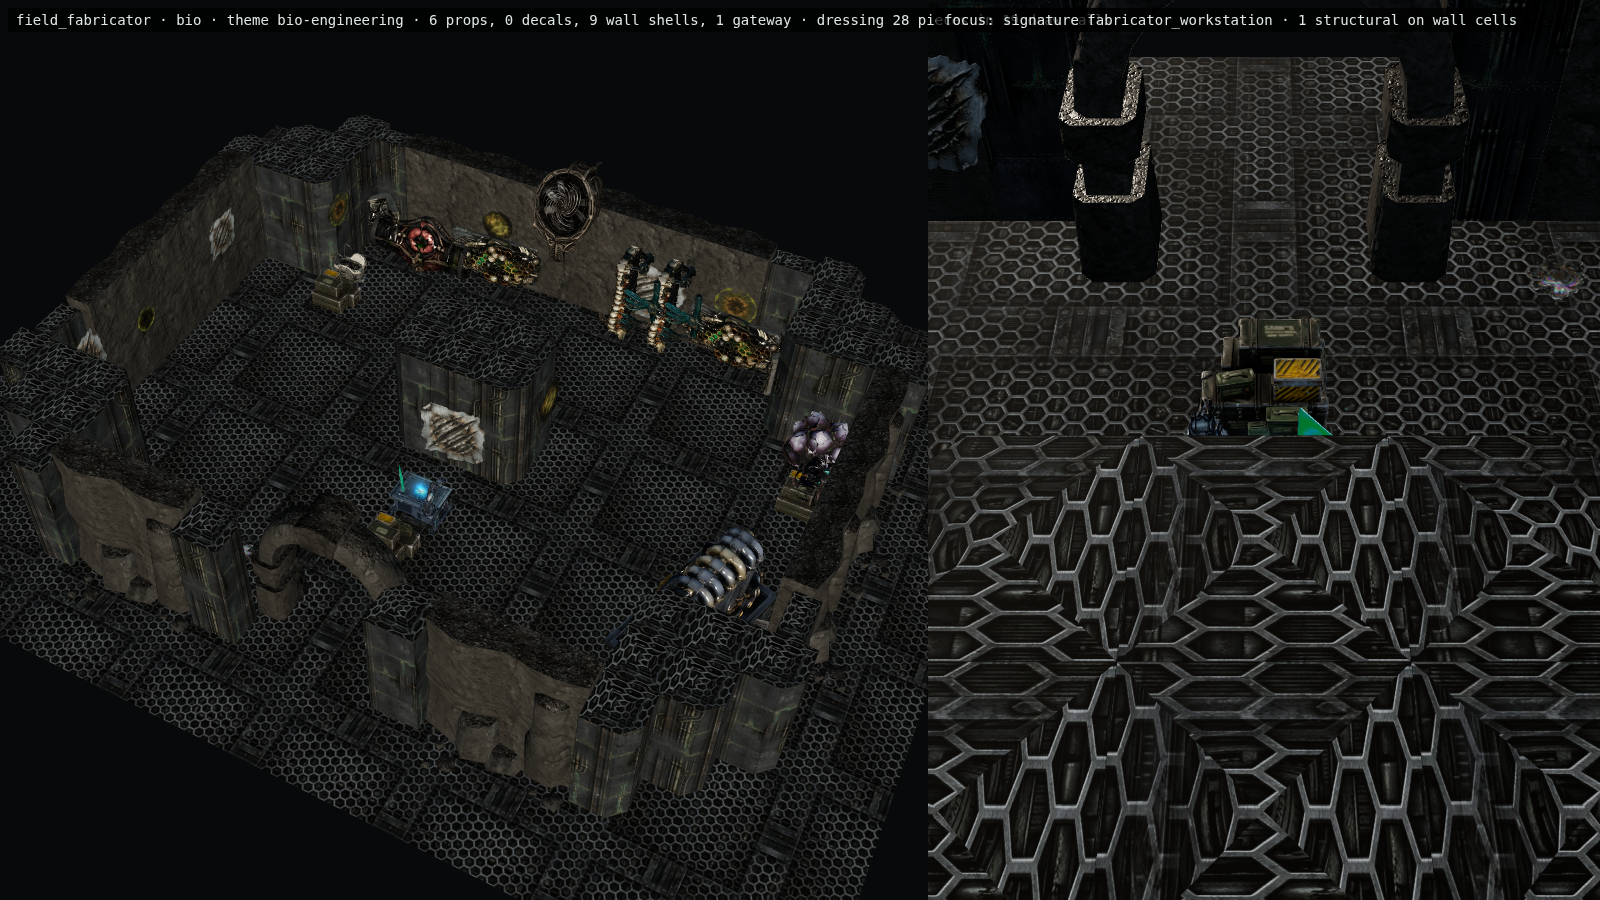
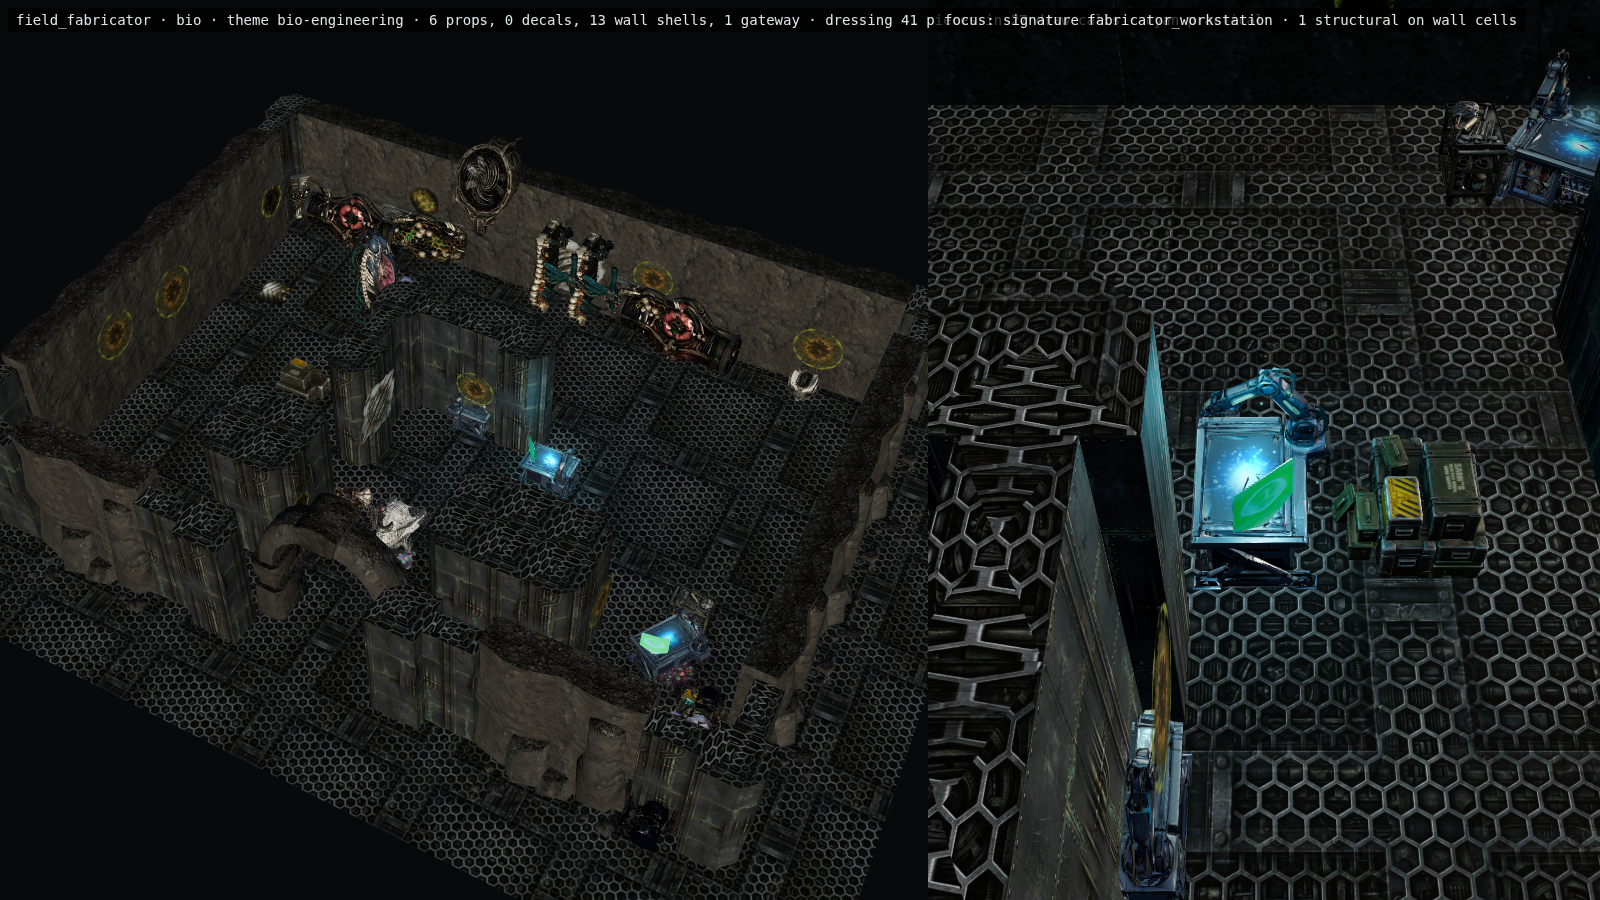
feat(levels): give fabricator an offset work-cell loop

diff --git a/src/data/roomBuilds.js b/src/data/roomBuilds.js
@@ -205,12 +205,22 @@ export const ROOM_BUILD_CATALOG = Object.freeze([
         family: 'fabricator',
         themeStyle: 'bunker',
         partitionThickness: 0.5,
-        pattern: rectRoomPattern(15, 11, [
-            { x: 0, y: 0, w: 2, h: 2 },
-            { x: 13, y: 0, w: 2, h: 2 },
-            { x: 0, y: 9, w: 2, h: 2 },
-            { x: 13, y: 9, w: 2, h: 2 },
-            { x: 6, y: 4, w: 3, h: 2 }
+        // P1 workshop proof: offset loading shoulders compress the south
+        // approach before it releases into an asymmetric work cell. The
+        // L-shaped island supports a small fixed loop between the terminal
+        // and output cache; fabrication states never change this topology.
+        pattern: authoredRoomPattern([
+            '...............',
+            '...............',
+            '...............',
+            '...............',
+            '.....####......',
+            '.....#.........',
+            '.....#.........',
+            '...............',
+            '....##...###...',
+            '....##...###...',
+            '...............'
         ]),
         sockets: [{ id: 'entry', side: 's', width: 3, required: true }],
         rotationPolicy: 'cardinal',
@@ -226,15 +236,24 @@ export const ROOM_BUILD_CATALOG = Object.freeze([
         // prop_fabricator_workstation: dedicated signature sprite,
         // replacing the placeholder 'console' type that resolved to no
         // texture.
-        interactionAnchors: [{ id: 'fabricator_terminal', type: 'prop_fabricator_workstation', x: 7, y: 7 }],
+        interactionAnchors: [{ id: 'fabricator_terminal', type: 'prop_fabricator_workstation', x: 9, y: 5 }],
         signatureAnchorId: 'fabricator_terminal',
         compassAnchors: { approach: 'entry', objective: 'fabricator_terminal' },
-        coverZones: [{ x: 6, y: 4, w: 3, h: 2 }],
+        coverZones: [
+            { x: 5, y: 4, w: 4, h: 1 },
+            { x: 5, y: 4, w: 1, h: 3 },
+            { x: 4, y: 8, w: 2, h: 2 },
+            { x: 9, y: 8, w: 3, h: 2 }
+        ],
         encounterZones: [],
-        rewardAnchors: [{ id: 'schematic_cache', type: 'prop_bunker_supplies', x: 2, y: 2 }],
+        rewardAnchors: [{ id: 'schematic_cache', type: 'prop_bunker_supplies', x: 3, y: 5 }],
         loreAnchors: [],
         hazardZones: [],
-        quietZones: [{ x: 0, y: 0, w: 15, h: 11 }],
+        quietZones: [
+            { x: 6, y: 7, w: 3, h: 4 },
+            { x: 7, y: 3, w: 6, h: 4 },
+            { x: 1, y: 3, w: 4, h: 4 }
+        ],
         safeZone: true,
         containmentBounds: { minX: 0, minY: 0, maxX: 14, maxY: 10 },
         presentationVariants: ['intact', 'depleted', 'broken'],

diff --git a/src/roomBuilds.test.js b/src/roomBuilds.test.js
@@ -184,6 +184,41 @@ describe('ROOM_BUILD_CATALOG', () => {
         expect(build.rewardAnchors[0]).toMatchObject({ id: 'ammo_crate', x: 8, y: 3 });
     });
 
+    it('turns the field fabricator into an offset intake and fixed work-cell loop', () => {
+        const build = ROOM_BUILD_CATALOG.find((entry) => entry.id === 'field_fabricator');
+        expect(build.pattern).toEqual([
+            '...............',
+            '...............',
+            '...............',
+            '...............',
+            '.....####......',
+            '.....#.........',
+            '.....#.........',
+            '...............',
+            '....##...###...',
+            '....##...###...',
+            '...............'
+        ]);
+        const approach = computeApproachPoint(build);
+        const terminal = { x: 9, y: 5 };
+        const cache = { x: 3, y: 5 };
+        const northCrosscut = new Set();
+        const southCrosscut = new Set();
+        for (let x = 4; x <= 9; x += 1) {
+            northCrosscut.add(`${x},3`);
+            southCrosscut.add(`${x},7`);
+        }
+        expect(approach).toEqual({ x: 7, y: 8 });
+        expect(build.pattern[8].slice(6, 9)).toBe('...');
+        expect(shortestPatternPath(build.pattern, approach, terminal)).toBeLessThan(Infinity);
+        expect(shortestPatternPath(build.pattern, terminal, cache, northCrosscut)).toBeLessThan(Infinity);
+        expect(shortestPatternPath(build.pattern, terminal, cache, southCrosscut)).toBeLessThan(Infinity);
+        expect(build.signatureAnchorId).toBe('fabricator_terminal');
+        expect(build.structuralAnchors[0]).toMatchObject({ id: 'fabricator_bench', x: 7, y: 4 });
+        expect(build.interactionAnchors[0]).toMatchObject({ id: 'fabricator_terminal', x: 9, y: 5 });
+        expect(build.rewardAnchors[0]).toMatchObject({ id: 'schematic_cache', x: 3, y: 5 });
+    });
+
     it.each(ROOM_BUILD_CATALOG.map((build) => [build.id, build]))('%s is internally valid', (_, build) => {
         expect(validateRoomBuild(build)).toEqual([]);
     });

diff --git a/tests/e2e/probes/p1-field-fabricator-gameplay-camera.spec.js b/tests/e2e/probes/p1-field-fabricator-gameplay-camera.spec.js
@@ -1,0 +1,19 @@
+import { test, expect } from '@playwright/test';
+
+// P1 workshop proof: the compressed loading notch, active work cell and
+// output pocket must survive every cardinal gameplay-camera rotation.
+for (let rotation = 0; rotation < 4; rotation += 1) {
+    test(`P1 field fabricator game camera — R${rotation}`, async ({ page }) => {
+        await page.setViewportSize({ width: 1600, height: 900 });
+        await page.goto(`/tests/e2e/fixtures/furnished-room-showroom.html?build=field_fabricator&biome=active&review=gameplay&rotation=${rotation}`);
+        await page.waitForFunction(() => window.__showroom?.ready === true, null, { timeout: 90_000 });
+        const result = await page.evaluate(() => window.__showroom);
+        expect(result.reviewMode).toBe(true);
+        expect(result.rotation).toBe(rotation);
+        expect(result.cutawayCells).toBeGreaterThan(0);
+        expect(result.props + result.decals).toBeGreaterThan(0);
+        await page.screenshot({
+            path: `docs/reports/assets/furnished-rooms/p1-field_fabricator-game-camera-r${rotation}.png`
+        });
+    });
+}

diff --git a/src/anchorPracticalLight.js b/src/anchorPracticalLight.js
@@ -18,7 +18,7 @@ export const ANCHOR_LIGHT_PALETTE = Object.freeze({
 
 // First match wins; cyan before green so a "biomech oxygen" piece reads cold.
 const PALETTE_RULES = Object.freeze([
-    { palette: 'cyan', match: /oxygen|coolant|cryo|o2_|frost|icey|thermal|water_still|medical_bed|tesla_coil/ },
+    { palette: 'cyan', match: /oxygen|coolant|cryo|o2_|frost|icey|thermal|water_still|medical_bed|tesla_coil|fabricator/ },
     { palette: 'amber', match: /lectern|votive|shrine|reliquary|saint|liturgical|candle|barrel_heater|flood_lamp|pheromone_censer|scent_distiller|warmth_hearth|checkpoint_post|wayfinding_totem|seismic_drill|devotion_tree|meat_smoking_rack|pipe_organ_heat_exchanger|ammo_crate/ },
     { palette: 'green', match: /biomech|spore|fungal|hive|flesh|umbilical|alien|incubator|mycelium/ }
 ]);

diff --git a/src/anchorPracticalLight.test.js b/src/anchorPracticalLight.test.js
@@ -12,6 +12,7 @@ describe('anchor practical light (lived-in world M4)', () => {
         expect(anchorPaletteFor('life_water_still')).toBe('cyan');
         expect(anchorPaletteFor('prop_medical_bed')).toBe('cyan');
         expect(anchorPaletteFor('prop_tesla_coil_node')).toBe('cyan');
+        expect(anchorPaletteFor('prop_fabricator_workstation')).toBe('cyan');
         expect(anchorPaletteFor('prop_pipe_organ_heat_exchanger')).toBe('amber');
         expect(anchorPaletteFor('prop_ammo_crate_stack')).toBe('amber');
         expect(anchorPaletteFor('life_barrel_heater')).toBe('amber');

diff --git a/docs/planning/n64-architectural-level-design-overhaul-2026-10-10.md b/docs/planning/n64-architectural-level-design-overhaul-2026-10-10.md
@@ -676,7 +676,20 @@ production-cutaway captures live at
 
 The locker does not physically open yet: panel animation, lock-state binding, contents reveal, and
 coordinated light/audio feedback remain presentation work. The geometry stays fixed when those
-states land. Next P1 candidate: `field_fabricator`.
+states land.
+
+The fifth P1 proof is `field_fabricator`. Unequal loading shoulders compress the south approach into
+a clear three-cell material-intake notch, then release into an offset work cell around an L-shaped
+fabrication island. The preserved `fabricator_terminal` remains the fallback-resource compass
+objective, moves into the east bay, and receives a cyan task light. The schematic cache becomes a
+west output pocket reached around either the close southern crosscut or quieter northern side.
+Exact-pattern tests prove the intake and both loop paths; four gameplay-camera/cutaway captures live
+at `docs/reports/assets/furnished-rooms/p1-field_fabricator-game-camera-r*.png`.
+
+The bench and terminal currently share one workstation GLB. Distinct light, grime, screen, and
+interaction treatment must carry their separate roles until the bench receives unique art. Future
+nozzle, carriage, clamp, or output-tray animation stays bounded inside the prop footprint and never
+changes navigation collision. Next P1 candidate: `room_cyber_surgical_fabrication_ward`.
 
 ### 9.6.2 Authored-geometry persistence gate
 
@@ -1027,6 +1040,10 @@ chunk mounts.
   covered flank. The preserved lock console remains the progression objective, while the ammo cache
   owns amber signature light and reward hierarchy. Exact geometry, route, exit, and four-rotation
   camera proofs pass; animated locker state remains future presentation work.
+- 2026-10-11: Lane A rebuilt the field fabricator as an offset loading notch opening onto an
+  asymmetric work-cell loop. Its fallback-resource terminal keeps identity and now owns cyan focal
+  light; both island paths and all four camera rotations pass. Bench/terminal GLB duplication and
+  bounded fabrication articulation remain presentation work.
 - 2026-10-10: Round 2 done (`1b0fce7c`): chasm landmarks plus tactical-map glyphs. Criteria 1,
   3, 4 and 5 met; criterion 2 not met as written, with the reason and the map-based answer in
   §9.10.

diff --git a/docs/planning/world-design-doctrine-n64-lessons-2026-10-10.md b/docs/planning/world-design-doctrine-n64-lessons-2026-10-10.md
@@ -505,7 +505,22 @@ route shorter. All four rotation/cutaway captures live at
 This is a fixed architectural reward choice, not yet an opening locker simulation. The ammo crate
 retains its existing generic interaction; opening panels, lock-state animation, contents reveal,
 and synchronized light/audio feedback remain presentation work and must not alter the two routes.
-The next P1 candidate is `field_fabricator`.
+
+`field_fabricator` is the fifth P1 proof. Two unequal loading shoulders compress the south entry
+into a three-cell material-intake notch before releasing into an asymmetric work cell. The existing
+`fabricator_terminal` moves to the east bay, remains the fallback-resource compass objective, and
+owns a cyan practical; an L-shaped fabrication island separates it from the west schematic-output
+pocket. The island can be circled on either its close southern crosscut or quieter northern side, so
+the room remains a fixed safe loop in every machine state. Tests pin the exact pattern, clear intake,
+both loop paths, anchor identities, and all four rotations. Captures live at
+`docs/reports/assets/furnished-rooms/p1-field_fabricator-game-camera-r*.png`.
+
+The structural bench and interactive terminal currently resolve to the same workstation GLB. This
+proof separates their projection lines and hierarchy, but future art should give the bench a low
+amber work treatment and the terminal the dominant cyan screen. A bounded nozzle, carriage, clamp,
+or output-tray cycle may animate inside the prop footprint; it must never become navigation
+collision or change the loop. The next P1 candidate is
+`room_cyber_surgical_fabrication_ward`.
 
 ### Authored-geometry save policy
 
